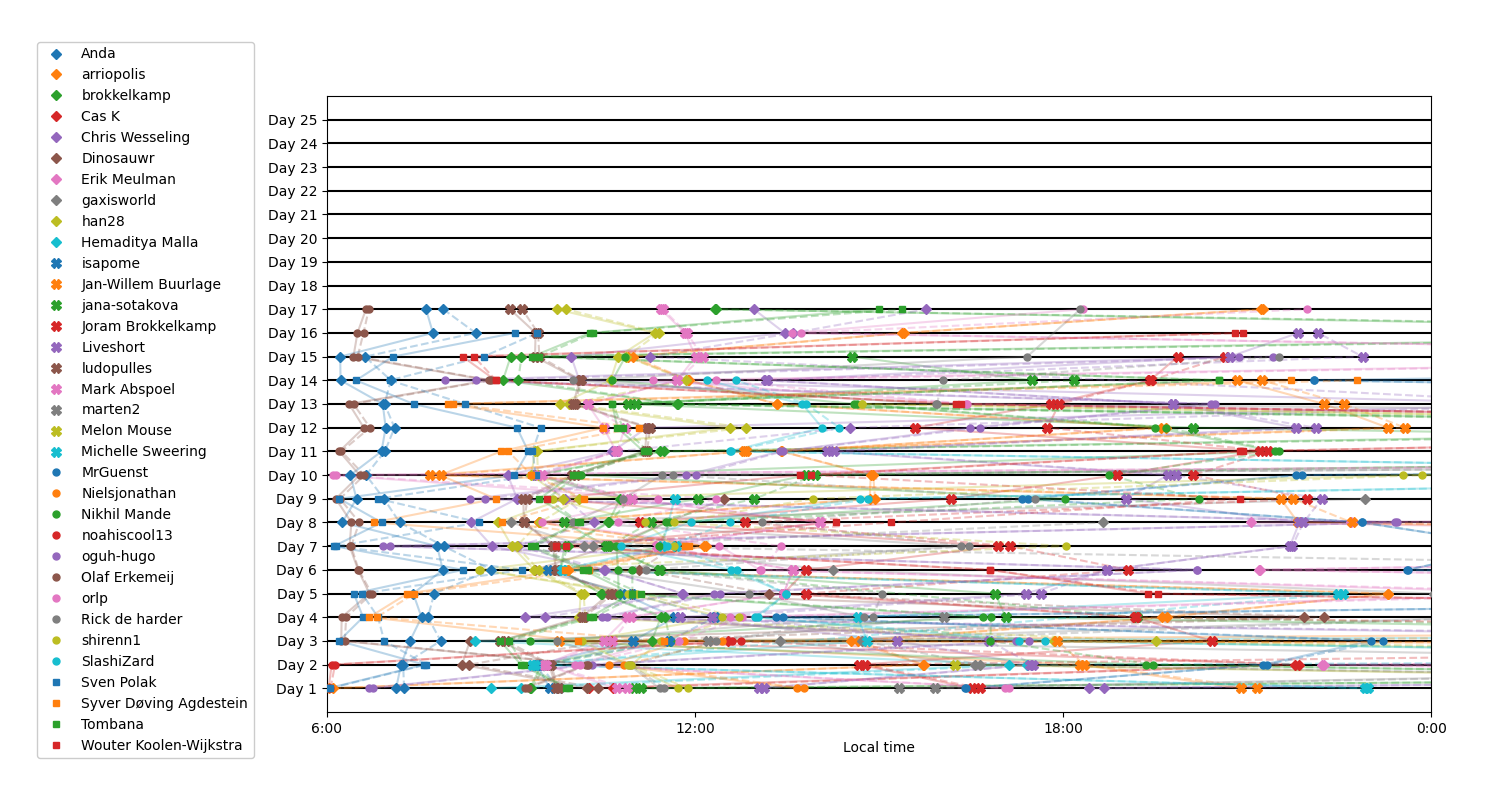
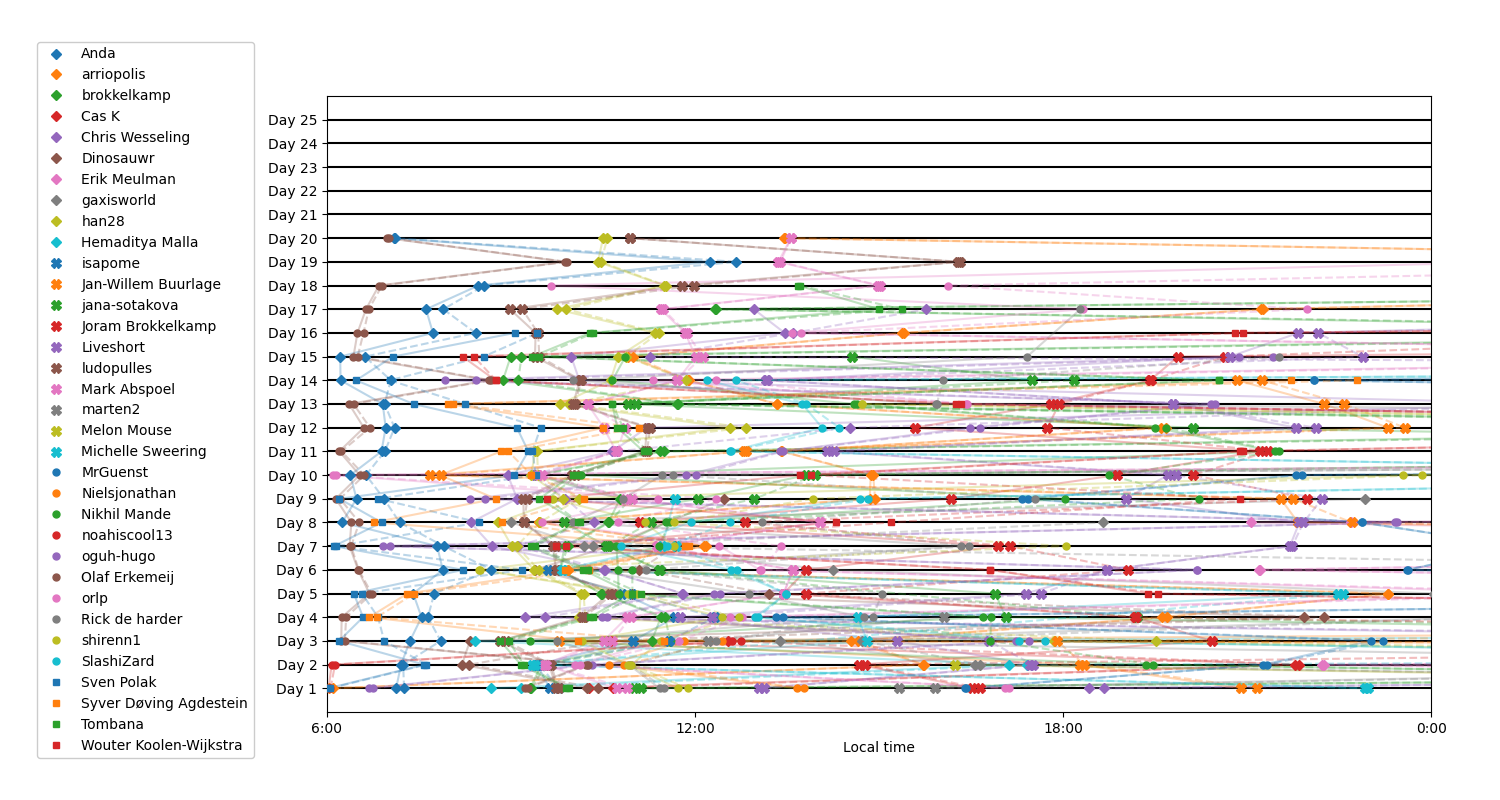
Added solutions for Day 20.

diff --git a/Day20/part1-oneline-formatted.py b/Day20/part1-oneline-formatted.py
@@ -1,0 +1,25 @@
+print(next(sum(sum(r) for r in grid[0])
+    for lines in [open('input.txt').readlines()]
+    for alg in [lines[0].strip()]
+    for g in [[[1 if c == '#' else 0 for c in line.strip()] for line in lines[2:]]]
+    for n in [2]
+    for grid in [[[[0]*(2*n + len(g)) for _ in range(n)] + [[0]*n + r + [0]*n for r in g] + [[0]*(2*n + len(g)) for _ in range(n)]]]
+    for outside in [[0]]
+    for _ in [[(
+            grid.append([
+                [
+                    1 if alg[int(
+                        ''.join(
+                            str(outside[0])
+                            if y+dy < 0 or y+dy >= len(grid[0]) or x+dx < 0 or x+dx >= len(grid[0][0]) else
+                            str(grid[0][y+dy][x+dx])
+                            for dy in range(-1,2) for dx in range(-1,2)
+                        ),2)] == '#' else 0
+                    for x in range(len(grid[0][0]))
+                ] for y in range(len(grid[0]))
+            ]),
+            grid.pop(0),
+            outside.append(outside.pop() if alg[0] == '.' else 1 - outside.pop())
+        ) for _ in range(n)
+    ]]
+))

diff --git a/Day20/part2.py b/Day20/part2.py
@@ -1,0 +1,29 @@
+import sys
+
+itr = iter(sys.stdin)
+alg = next(itr).strip()
+next(itr)
+
+grid = []
+for line in itr:
+    grid.append(list(map(lambda c : 1 if c == '#' else 0, line.strip())))
+
+# Enlarge the grid
+n = 50
+grid = [[0]*(2*n + len(grid)) for _ in range(n)] + [[0]*n + r + [0]*n for r in grid] + [[0]*(2*n + len(grid)) for _ in range(n)]
+
+outside = 0
+for _ in range(n):
+    new_grid = [[0]*len(grid[0]) for _ in grid]
+    for y in range(len(grid)):
+        for x in range(len(grid[0])):
+            s = ''
+            for dy in range(-1,2):
+                for dx in range(-1,2):
+                    if y+dy < 0 or y+dy >= len(grid): s += str(outside)
+                    elif x+dx < 0 or x+dx >= len(grid): s += str(outside)
+                    else: s += str(grid[y+dy][x+dx])
+            new_grid[y][x] = 1 if alg[int(s,2)] == '#' else 0
+    if alg[0] == '#': outside = 1 - outside
+    grid = new_grid
+print(sum(sum(r) for r in grid))

diff --git a/Day20/part1.py b/Day20/part1.py
@@ -1,0 +1,29 @@
+import sys
+
+itr = iter(sys.stdin)
+alg = next(itr).strip()
+next(itr)
+
+grid = []
+for line in itr:
+    grid.append(list(map(lambda c : 1 if c == '#' else 0, line.strip())))
+
+# Enlarge the grid
+n = 2
+grid = [[0]*(2*n + len(grid)) for _ in range(n)] + [[0]*n + r + [0]*n for r in grid] + [[0]*(2*n + len(grid)) for _ in range(n)]
+
+outside = 0
+for _ in range(n):
+    new_grid = [[0]*len(grid[0]) for _ in grid]
+    for y in range(len(grid)):
+        for x in range(len(grid[0])):
+            s = ''
+            for dy in range(-1,2):
+                for dx in range(-1,2):
+                    if y+dy < 0 or y+dy >= len(grid): s += str(outside)
+                    elif x+dx < 0 or x+dx >= len(grid): s += str(outside)
+                    else: s += str(grid[y+dy][x+dx])
+            new_grid[y][x] = 1 if alg[int(s,2)] == '#' else 0
+    if alg[0] == '#': outside = 1 - outside
+    grid = new_grid
+print(sum(sum(r) for r in grid))

diff --git a/Day20/part2-oneline.py b/Day20/part2-oneline.py
@@ -1,0 +1,1 @@
+print(next(sum(sum(r) for r in grid[0]) for lines in [open('input.txt').readlines()] for alg in [lines[0].strip()] for g in [[[1 if c == '#' else 0 for c in line.strip()] for line in lines[2:]]] for n in [50] for grid in [[[[0]*(2*n + len(g)) for _ in range(n)] + [[0]*n + r + [0]*n for r in g] + [[0]*(2*n + len(g)) for _ in range(n)]]] for outside in [[0]] for _ in [[(grid.append([[1 if alg[int(''.join(str(outside[0]) if y+dy < 0 or y+dy >= len(grid[0]) or x+dx < 0 or x+dx >= len(grid[0][0]) else str(grid[0][y+dy][x+dx]) for dy in range(-1,2) for dx in range(-1,2)),2)] == '#' else 0 for x in range(len(grid[0][0]))] for y in range(len(grid[0]))]), grid.pop(0), outside.append(outside.pop() if alg[0] == '.' else 1 - outside.pop())) for _ in range(n)]]))

diff --git a/Day20/part1-oneline.py b/Day20/part1-oneline.py
@@ -1,0 +1,1 @@
+print(next(sum(sum(r) for r in grid[0]) for lines in [open('input.txt').readlines()] for alg in [lines[0].strip()] for g in [[[1 if c == '#' else 0 for c in line.strip()] for line in lines[2:]]] for n in [2] for grid in [[[[0]*(2*n + len(g)) for _ in range(n)] + [[0]*n + r + [0]*n for r in g] + [[0]*(2*n + len(g)) for _ in range(n)]]] for outside in [[0]] for _ in [[(grid.append([[1 if alg[int(''.join(str(outside[0]) if y+dy < 0 or y+dy >= len(grid[0]) or x+dx < 0 or x+dx >= len(grid[0][0]) else str(grid[0][y+dy][x+dx]) for dy in range(-1,2) for dx in range(-1,2)),2)] == '#' else 0 for x in range(len(grid[0][0]))] for y in range(len(grid[0]))]), grid.pop(0), outside.append(outside.pop() if alg[0] == '.' else 1 - outside.pop())) for _ in range(n)]]))
